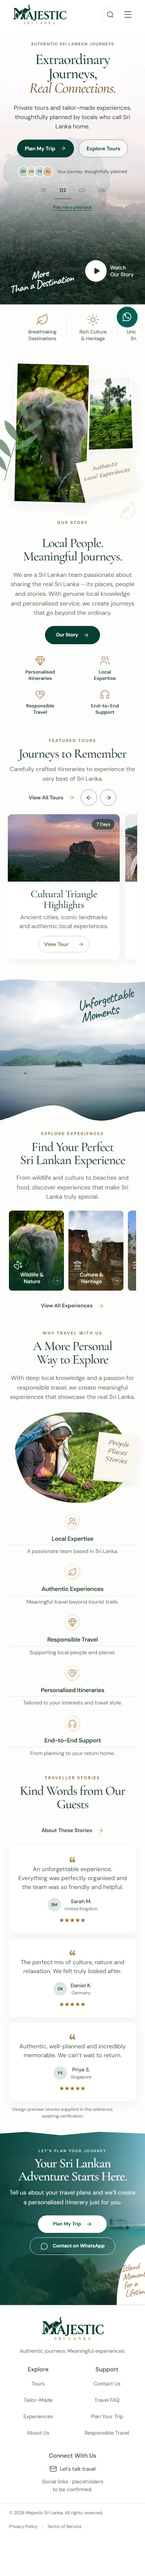
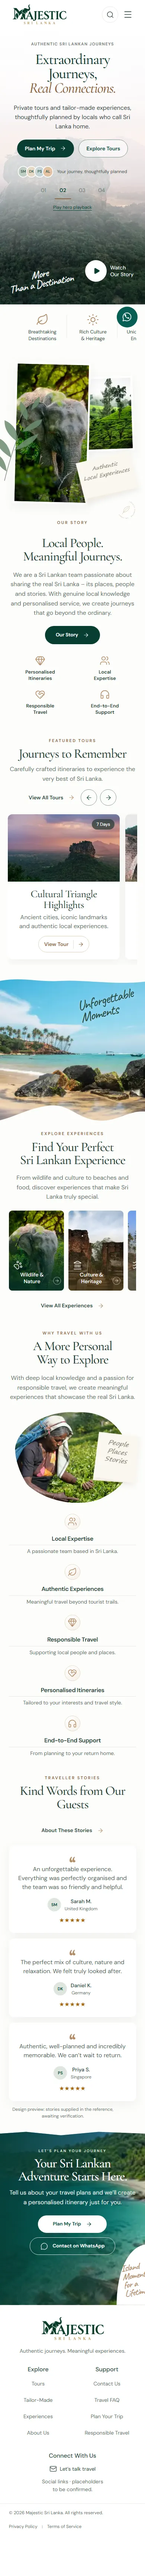
fix: restore original footer and brighten homepage experiences photo

Changed region(s): [[0.2154, 0.8113, 1.0, 0.9049], [0.0, 0.3745, 1.0, 0.4369]]

diff --git a/tests/e2e/homepage-photography.spec.ts b/tests/e2e/homepage-photography.spec.ts
@@ -19,8 +19,10 @@ test("homepage photographs decode from the licensed collection, including every 
     for (const image of images) image.loading = "eager";
     await Promise.all(images.map((image) => image.decode()));
   });
-  const photos = page.locator("img[data-photo]");
-  expect(await photos.count()).toBeGreaterThanOrEqual(13);
+  const photos = page.locator(
+    'img[data-photo]:not([data-photo="tropical-cta"])',
+  );
+  expect(await photos.count()).toBeGreaterThanOrEqual(12);
   for (const photo of await photos.all()) {
     await expect(photo).toHaveAttribute("data-photo-collection", "homepage");
     await expect(photo).toHaveJSProperty("complete", true);
@@ -40,7 +42,18 @@ test("homepage photographs decode from the licensed collection, including every 
       await active.evaluate((image: HTMLImageElement) => image.currentSrc),
     ).toContain("/homepage/");
   }
-  expect(oldPhotoRequests).toEqual([]);
+  const footer = page.locator('.closing-cta img[data-photo="tropical-cta"]');
+  await expect(footer).toHaveAttribute(
+    "src",
+    "/assets/majestic-sri-lanka/photography/tropical-cta-720.webp",
+  );
+  expect(await footer.getAttribute("data-photo-collection")).toBeNull();
+  expect(oldPhotoRequests.length).toBeGreaterThan(0);
+  expect(
+    oldPhotoRequests.every((url) =>
+      /\/photography\/tropical-cta-\d+\.webp$/.test(url),
+    ),
+  ).toBe(true);
   await expect(page.locator('meta[property="og:image"]')).toHaveAttribute(
     "content",
     /\/homepage\/photography\/hero-sigiriya-/,

diff --git a/docs/homepage-photography.md b/docs/homepage-photography.md
@@ -4,23 +4,23 @@ This branch changes homepage photography only. Baseline: `e5d432b9028563d0fbcf6f
 
 ## Sources and commercial permissions
 
-Eleven photographer-supplied photographs replace all fourteen unique homepage photo treatments, reused across sixteen primary placements and the shared tour dialogs: three hero slides, the story collage, tour cards, the reservoir feature, five experience cards, the tea-worker feature and the closing promotional background. The supplied film and its genuine frame poster, logo, botanical SVGs, paper notes and testimonial monograms are unchanged.
+Following the owner’s review, ten photographer-supplied photographs now cover thirteen replacement treatments across fifteen primary placements and the shared tour dialogs: three hero slides, the story collage, tour cards, the experiences feature, five experience cards and the tea-worker feature. The footer/closing promotional background is restored to its exact original image, responsive variants and crop, as expressly requested. Eleven licensed masters remain in the source register; the retired reservoir photograph is kept for rollback. The supplied film and its genuine frame poster, logo, botanical SVGs, paper notes and testimonial monograms are unchanged.
 
 Verified on **5 November 2026** against the original platform photo pages and the platforms' primary licence pages. Both the [Unsplash License](https://unsplash.com/license) and [Pexels License](https://www.pexels.com/license/) permit commercial website use, cropping and modification without mandatory attribution. Photographer credit is recorded here and in the shipped manifest. These licences do not permit implying endorsement, selling unmodified copies, or redistributing a competing stock collection. Individual publicity, privacy and trademark rights still apply; this record does not assert independently obtained model releases or identify photographed people as Majestic staff.
 
-| Homepage treatment / asset key       | Photographer and original source page                                                                                | Documented location                              | Licence                                           | Attribution required |
-| ------------------------------------ | -------------------------------------------------------------------------------------------------------------------- | ------------------------------------------------ | ------------------------------------------------- | -------------------- |
-| `hero-sigiriya`, `cultural-triangle` | [Anil Reddy](https://unsplash.com/photos/sunset-illuminates-sigiriya-rock-fortress-r-vUs1jhhLA)                      | Sigiriya / Pidurangala, Sri Lanka                | [Unsplash License](https://unsplash.com/license)  | No                   |
-| `elephant`, `wildlife`               | [Yagyaansh Khaneja](https://www.pexels.com/photo/elephant-in-forest-26847447/)                                       | Yala, Sri Lanka                                  | [Pexels License](https://www.pexels.com/license/) | No                   |
-| `hill-country`, `tea-country`        | [Erik Esly](https://unsplash.com/photos/lush-green-tea-plantation-on-a-misty-hillside-ZWdrM9IBBIE)                   | Nuwara Eliya, Sri Lanka                          | [Unsplash License](https://unsplash.com/license)  | No                   |
-| `blue-train`                         | [Domenico Bertazzo](https://www.pexels.com/photo/nine-arch-bridge-in-demodara-sri-lanka-4769075/)                    | Ella, Sri Lanka                                  | [Pexels License](https://www.pexels.com/license/) | No                   |
-| `southern-coast`                     | [Sameera Madusanka](https://www.pexels.com/photo/sunset-scenery-from-behind-a-palm-tree-13302116/)                   | Matara, Sri Lanka                                | [Pexels License](https://www.pexels.com/license/) | No                   |
-| `reservoir-travellers`               | [Nalaka Thalagala](https://unsplash.com/photos/a-large-body-of-water-surrounded-by-mountains-vGep5cUfrXI)            | Randenigala Reservoir, Sri Lanka                 | [Unsplash License](https://unsplash.com/license)  | No                   |
-| `culture`                            | [Alfred Franz](https://www.pexels.com/photo/ancient-ruins-in-polonnaruwa-sri-lanka-33171754/)                        | Polonnaruwa, Sri Lanka                           | [Pexels License](https://www.pexels.com/license/) | No                   |
-| `beaches`                            | [Shafky Zubair](https://www.pexels.com/photo/scenic-view-of-mirissa-beach-with-palm-trees-35637889/)                 | Mirissa, Sri Lanka                               | [Pexels License](https://www.pexels.com/license/) | No                   |
-| `sri-lankan-food`                    | [Zoshua Colah](https://unsplash.com/photos/a-variety-of-delicious-appetizing-curry-dishes-i0Dd1oxMz6c)               | Hikkaduwa, Sri Lanka                             | [Unsplash License](https://unsplash.com/license)  | No                   |
-| `tea-pickers`                        | [Asantha Abeysooriya](https://unsplash.com/photos/woman-picking-up-green-plants-in-field-during-daytime-beNiTTa8Pp8) | Tea Research Institute of Sri Lanka, Talawakelle | [Unsplash License](https://unsplash.com/license)  | No                   |
-| `tropical-cta`                       | [Zoshua Colah](https://unsplash.com/photos/tropical-beach-with-rocks-palm-trees-and-clear-blue-ocean-v_s2z24cezg)    | Mirissa, Sri Lanka                               | [Unsplash License](https://unsplash.com/license)  | No                   |
+| Homepage treatment / asset key               | Photographer and original source page                                                                                | Documented location                              | Licence                                           | Attribution required |
+| -------------------------------------------- | -------------------------------------------------------------------------------------------------------------------- | ------------------------------------------------ | ------------------------------------------------- | -------------------- |
+| `hero-sigiriya`, `cultural-triangle`         | [Anil Reddy](https://unsplash.com/photos/sunset-illuminates-sigiriya-rock-fortress-r-vUs1jhhLA)                      | Sigiriya / Pidurangala, Sri Lanka                | [Unsplash License](https://unsplash.com/license)  | No                   |
+| `elephant`, `wildlife`                       | [Yagyaansh Khaneja](https://www.pexels.com/photo/elephant-in-forest-26847447/)                                       | Yala, Sri Lanka                                  | [Pexels License](https://www.pexels.com/license/) | No                   |
+| `hill-country`, `tea-country`                | [Erik Esly](https://unsplash.com/photos/lush-green-tea-plantation-on-a-misty-hillside-ZWdrM9IBBIE)                   | Nuwara Eliya, Sri Lanka                          | [Unsplash License](https://unsplash.com/license)  | No                   |
+| `blue-train`                                 | [Domenico Bertazzo](https://www.pexels.com/photo/nine-arch-bridge-in-demodara-sri-lanka-4769075/)                    | Ella, Sri Lanka                                  | [Pexels License](https://www.pexels.com/license/) | No                   |
+| `southern-coast`                             | [Sameera Madusanka](https://www.pexels.com/photo/sunset-scenery-from-behind-a-palm-tree-13302116/)                   | Matara, Sri Lanka                                | [Pexels License](https://www.pexels.com/license/) | No                   |
+| Retired reservoir; retained for rollback     | [Nalaka Thalagala](https://unsplash.com/photos/a-large-body-of-water-surrounded-by-mountains-vGep5cUfrXI)            | Randenigala Reservoir, Sri Lanka                 | [Unsplash License](https://unsplash.com/license)  | No                   |
+| `culture`                                    | [Alfred Franz](https://www.pexels.com/photo/ancient-ruins-in-polonnaruwa-sri-lanka-33171754/)                        | Polonnaruwa, Sri Lanka                           | [Pexels License](https://www.pexels.com/license/) | No                   |
+| `beaches`                                    | [Shafky Zubair](https://www.pexels.com/photo/scenic-view-of-mirissa-beach-with-palm-trees-35637889/)                 | Mirissa, Sri Lanka                               | [Pexels License](https://www.pexels.com/license/) | No                   |
+| `sri-lankan-food`                            | [Zoshua Colah](https://unsplash.com/photos/a-variety-of-delicious-appetizing-curry-dishes-i0Dd1oxMz6c)               | Hikkaduwa, Sri Lanka                             | [Unsplash License](https://unsplash.com/license)  | No                   |
+| `tea-pickers`                                | [Asantha Abeysooriya](https://unsplash.com/photos/woman-picking-up-green-plants-in-field-during-daytime-beNiTTa8Pp8) | Tea Research Institute of Sri Lanka, Talawakelle | [Unsplash License](https://unsplash.com/license)  | No                   |
+| `reservoir-travellers` (experiences feature) | [Zoshua Colah](https://unsplash.com/photos/tropical-beach-with-rocks-palm-trees-and-clear-blue-ocean-v_s2z24cezg)    | Mirissa, Sri Lanka                               | [Unsplash License](https://unsplash.com/license)  | No                   |
 
 The original source JPEGs and their SHA-256 hashes, dimensions, file sizes, camera/publication evidence and verification dates are committed in [sources.json](../assets/source/homepage-photography/sources.json). Every generated variant links back to its source in [the delivery manifest](../public/assets/majestic-sri-lanka/homepage/manifest.json). Source selection uses documentary photographs with platform photographer metadata and camera or publication evidence, followed by visual inspection. No AI image generator, generative fill, object replacement, compositing or hotlinked delivery is used. No platform AI-retouch tool was used. Such provenance supports the selection; it is not a forensic certification of a photographer's entire workflow.
 
@@ -29,7 +29,8 @@ The original source JPEGs and their SHA-256 hashes, dimensions, file sizes, came
 The composition follows the approved reference: Sigiriya to the right of hero copy, warm coastal light and palm fronds, deep green elephant and tea imagery, the blue train on Nine Arch Bridge, warm stone heritage, coastal palms, overhead curry dishes and a tea worker among green leaves. Crops, rather than page layout changes, keep the subjects within the existing masks.
 
 - The closest verified Sigiriya view has warm **evening** light. Its alt text and homepage social-image description say sunset/evening, rather than claiming sunrise.
-- The reservoir feature preserves the real Randenigala water-and-hills setting. It has no foreground couple; no people were synthesized or added. The legacy technical key `reservoir-travellers` stays stable, with accurate reservoir alt text.
+- At the owner’s request, the image beside **Explore Experiences** now shows colourful Mirissa Beach: turquoise water, green coconut palms and warm sand. It uses the already verified Zoshua Colah photograph formerly considered for the footer, with a fresh 4:3 crop. No saturation filter or synthetic content is added. The legacy technical key `reservoir-travellers` remains stable, but its alt text accurately describes Mirissa. New `experience-mirissa-*` URLs avoid serving a cached version of the retired reservoir image.
+- The footer explicitly selects the original collection through the shared Photo component. The original footer files, responsive sizes, dimensions and overlay are unchanged. Its restoration is the owner-approved exception to the photography replacement.
 - The real tea-worker photograph shows one worker rather than two. The food photograph contains vegetable curries and dhal in white bowls rather than the generated clay-pot/rice arrangement. Descriptions reflect the actual photographs.
 
 These are disclosed differences between real photographs and the generated reference, not changes to the site's layout or travel claims.
@@ -39,9 +40,9 @@ These are disclosed differences between real photographs and the generated refer
 - Homepage-only selection occurs in the existing shared Photo component. Other routes retain their original asset collection. The component stays a plain image so existing direct-child masks and selectors remain intact.
 - Three hero images use AVIF with responsive WebP fallback. The Sigiriya phone crop retains the exact original 360×684 and 467×887 output sizes and existing focal convention. Other responsive variants preserve every original intrinsic width and height.
 - Existing `sizes`, image loading priorities, lazy loading, async decoding, object-fit, object-position, borders, masks, radii, shadows, hero controls and film sequence remain intact. No CSS, runtime script, dependency or lockfile changes are needed.
-- Regenerate deterministically with `npm run assets:homepage`. The script verifies each master hash and rights record, refuses an insufficient source size and writes the variant/credit manifest.
+- Regenerate deterministically with `npm run assets:homepage`. The script verifies each master hash and rights record, refuses an insufficient source size and writes the variant/credit manifest. `npm run assets:homepage -- --only reservoir-travellers` regenerates only the experiences feature, preserving all other image bytes and hero variants. Encoding uses the source pipeline directly rather than allocating large intermediate PNGs for every photograph.
 - The isolated collection has its own bounded build-size inventory. All original collection budgets remain enforced. Old public photographs remain because six other routes still use them; total deployed storage therefore grows. Only selected responsive files are requested by the homepage.
-- All original masters, generated assets and baseline commits remain available. Nothing is overwritten or deleted. The owner can return immediately to the clean `main` baseline or reject this feature branch without affecting the approved site. No merge or branch deletion is authorised by this task.
+- All original baseline masters, public photographs and commits remain available and untouched. Only unused replacement footer and retired reservoir derivatives were removed from the feature branch; earlier feature commits retain them for rollback. The owner can return immediately to the clean `main` baseline or reject this feature branch without affecting the approved site. No merge or branch deletion is authorised by this task.
 
 ## Visual evidence
 
@@ -57,17 +58,19 @@ Additional hero captures for all three slides at all three sizes are in the same
 
 The measured comparison at **320, 375, 390, 768, 1024 and 1440px** found zero differences in heading, CTA and image rectangles, object-fit, focal positions, clipping paths or corner radii; no horizontal document overflow. Hash comparison verified unchanged CSS, runtime scripts, original photography and decorative assets, plus byte-identical built HTML on the six other primary routes.
 
-Visual critique: the replacements remove the synthetic texture of the original scenes while keeping the green/bronze palette and subject hierarchy. Sigiriya remains in the open right-hand hero area; the elephant face and tea-worker remain readable through the established masks. The reservoir becomes a quieter authentic landscape. Sunset and hill-country slides keep the existing copy overlay and controls. Mobile and tablet compositions retain their original centring and carousel treatment. Real-device and final client art-direction acceptance remain human review tasks.
+Visual critique: the replacements remove the synthetic texture of the original scenes while keeping the green/bronze palette and subject hierarchy. Sigiriya remains in the open right-hand hero area; the elephant face and tea-worker remain readable through the established masks. The experiences feature is now a brighter coastal scene, while the footer returns to its approved original photograph. Sunset and hill-country slides keep the existing copy overlay and controls. Mobile and tablet compositions retain their original centring and carousel treatment. Real-device and final client art-direction acceptance remain human review tasks.
 
 ## Verification results
+
+For the footer/experiences review revision: production build, ESLint, Astro/TypeScript, preview SEO validation and build budgets passed. All **16 targeted Playwright checks passed** across desktop, tablet, mobile and small mobile, including explicit original-footer selection, image decoding, slideshow fallback, isolation of the other routes and homepage accessibility. New screenshots and geometry comparisons cover all six requested widths with zero layout changes. The broader full-suite and Lighthouse history below describes the preceding `0ace7fd` revision.
 
 Measured encoding inventory (decimal KB/MB; these totals contain every responsive size, not one page load):
 
 | Measurement                           | Result                                          |
 | ------------------------------------- | ----------------------------------------------- |
 | Original licensed JPEG masters        | 43.96 MB, retained outside the public directory |
-| Corresponding old WebP photo variants | 7,000,776 bytes                                 |
-| Replacement WebP photo variants       | 5,906,962 bytes; **15.62% smaller**             |
+| Corresponding old WebP photo variants | 6,688,118 bytes                                 |
+| Replacement WebP photo variants       | 5,892,892 bytes; **11.89% smaller**             |
 | Additional AVIF hero variants         | 546,527 bytes                                   |
 | Sigiriya phone AVIF                   | 16.9 KB at 360×684; 28.4 KB at 467×887          |
 | Largest Sigiriya hero AVIF / WebP     | 63.3 / 75.5 KB at 1600×800                      |
@@ -79,7 +82,7 @@ The phone collection adds 57,016 WebP bytes and 45,243 AVIF bytes across its two
 
 Passed: formatting, ESLint, Astro/TypeScript (71 files, zero errors/warnings/hints), 11 unit tests, production build, preview SEO/build validation, unchanged original budgets and the new homepage media budgets. All 12 photography-specific browser checks passed across the four existing viewport profiles: complete image decoding, homepage-only selection, all three hero slides and WebP fallback with AVIF sources unavailable.
 
-Lighthouse 13.6.0, three independent runs per device, using the existing preview artifact and unchanged film-first playback:
+Historical Lighthouse baseline at `0ace7fd`, before the requested footer/experiences revision: Lighthouse 13.6.0, three independent runs per device, using the preview artifact and unchanged film-first playback. These are retained measurements, not a new audit of the two-image revision:
 
 | Profile | Performance runs / median | Accessibility | Best practices | Raw SEO | Median-run LCP | CLS    |
 | ------- | ------------------------- | ------------- | -------------- | ------- | -------------- | ------ |
@@ -90,7 +93,7 @@ The raw SEO score retains the existing intentional preview noindex failure; no a
 
 The generic design inspector ran at 1440/768/390px. Its media/overflow probes found no broken images or horizontal document overflow. Its house-style gate still flags existing approved eyebrows, shadows, gradients, typography, decorative edge text, carousels and centred mobile text. These are retained under the explicit no-redesign instruction; this report does **not** claim that generic style gate passed.
 
-The full existing Playwright suite attempted **188 scenarios** across desktop, tablet, mobile and small mobile. Its first run returned **186 passes and two browser evaluation errors**: a desktop 404 assertion failed inside the browser's injected evaluator with `Unexpected token '{'`, and the tablet planner accessibility scan returned `Unexpected template string` inside the injected utility script. Neither returned a site assertion mismatch or an accessibility violation. Both scenarios were repeated three times on each of the two affected profiles with one worker: **12/12 passed**, without site changes, reduced assertions or added retries. The original full-run failure traces and isolated results are retained locally. This is complete scenario coverage with disclosed harness errors, not a claim of a clean 188/188 first run.
+Before the requested footer/experiences revision, the full existing Playwright suite attempted **188 scenarios** across desktop, tablet, mobile and small mobile. Its first run returned **186 passes and two browser evaluation errors**: a desktop 404 assertion failed inside the browser's injected evaluator with `Unexpected token '{'`, and the tablet planner accessibility scan returned `Unexpected template string` inside the injected utility script. Neither returned a site assertion mismatch or an accessibility violation. Both scenarios were repeated three times on each of the two affected profiles with one worker: **12/12 passed**, without site changes, reduced assertions or added retries. The original full-run failure traces and isolated results are retained locally. This is complete scenario coverage with disclosed harness errors, not a claim of a clean 188/188 first run.
 
 The first production-fixture attempt timed out starting its server while the full suite was running. A serial `npm run test:production` rerun passed the production build, seven indexable-page metadata validation and **10/10 browser tests** covering all routes, sitemap/404, analytics consent and AVIF/WebP fallback. The normal `dist/` remains the safe noindex preview artifact; the indexable fixture stays isolated under `.local/production-fixture` and is not published.
 
